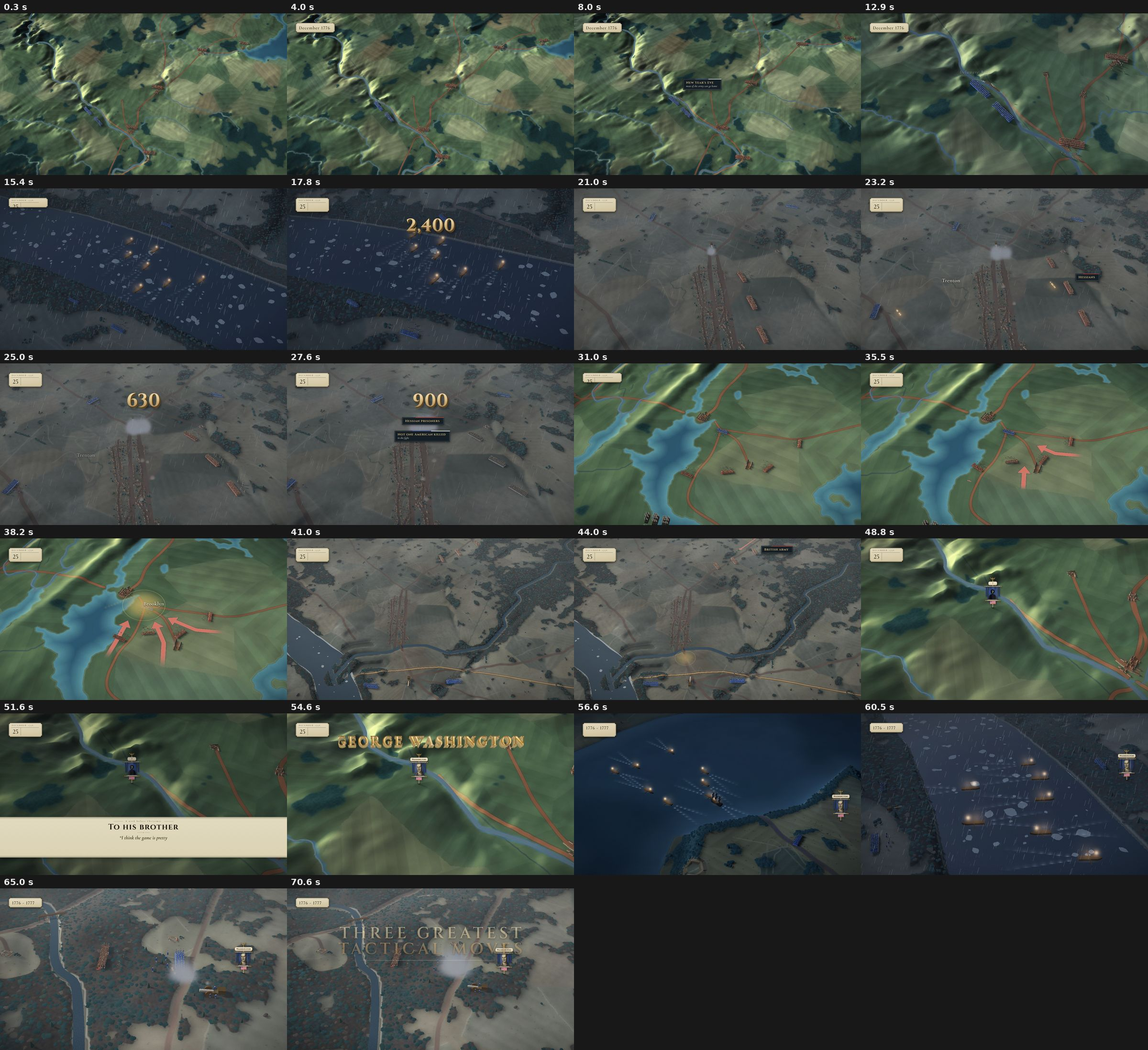
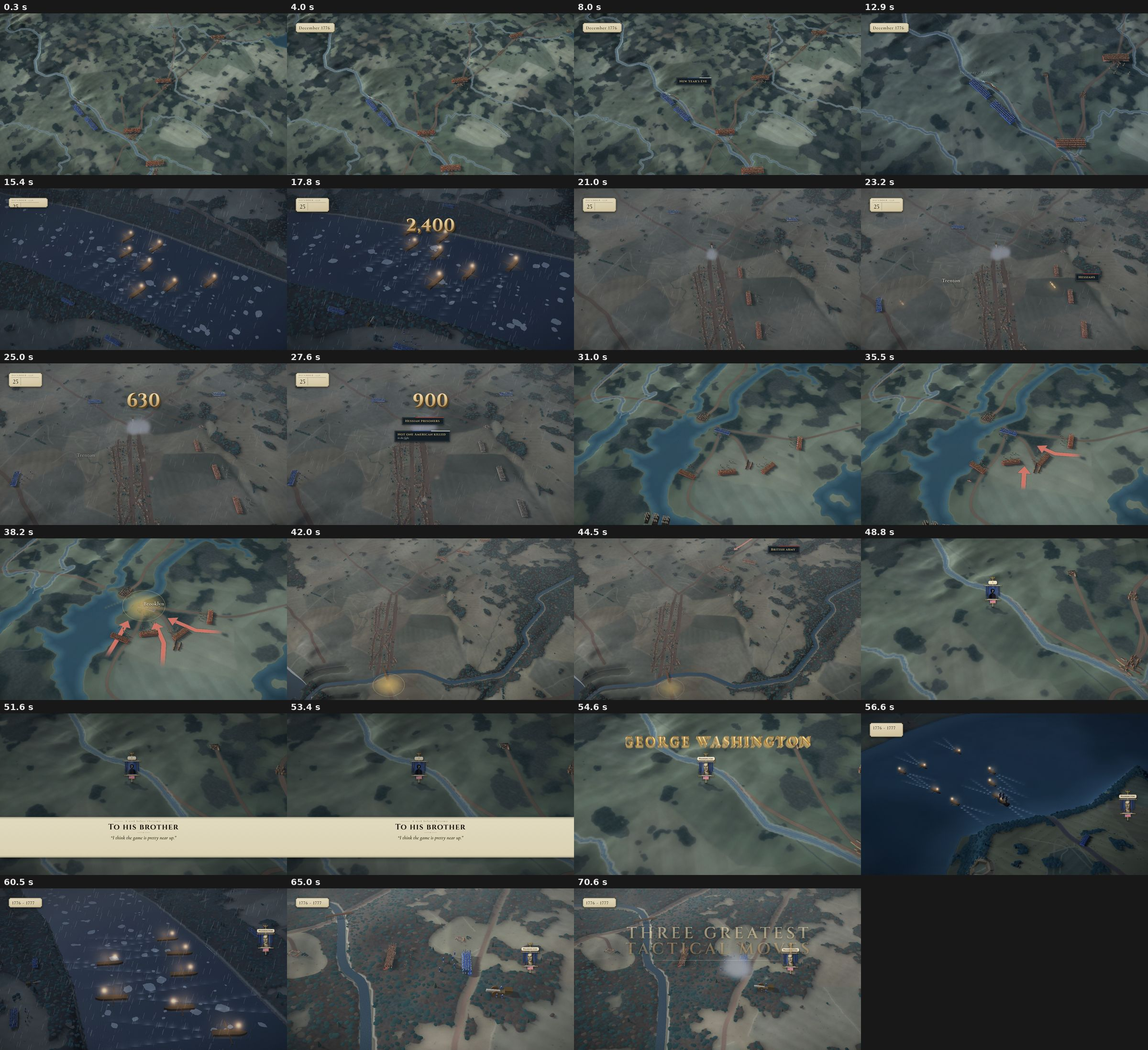
WIP: author A round-1 fixes in progress
Claude-Session: https://claude.ai/code/session_011uJnjBmWWPVu63DLzFZfyj

diff --git a/washington/sequences/S01/seq.js b/washington/sequences/S01/seq.js
@@ -81,7 +81,7 @@ const U = (o) => { units.push({ arrive: false, ...o }); };
 // A: colonies. Red posts settle across New Jersey (short walks into their posts, done by ~6 s); the small blue army walks up to the PA bank.
 const NYC = P("New York", CO);
 // each post: the line walks in from the north (front first, straight down the screen) and halts at its post
-[[TRC, 1, 3.0], [BOC, 1, 2.5], [PRC, 1, 2.5], [NBC, 1, 2.5], [PAC, 1, 2.5]].forEach(([p, n, d], i) => {
+[[TRC, 1, 3.0], [BOC, 1, 2.5], [PRC, 1, 2.5], [NBC, 1, 2.5]].forEach(([p, n, d], i) => {
   const v0 = [0, -1], l = Math.hypot(...v0), v = [v0[0] / l, v0[1] / l], st = [p[0] + v[0] * (d + 9), p[1] + v[1] * (d + 9)], end = [p[0] + v[0] * d, p[1] + v[1] * d];
   U({ region: CO, side: "r", type: "inf", n, bw: 1.4, face: Math.atan2(-v[1], -v[0]), t0: -1, t1: DV.full + 0.2, keys: [[0, ...lerp2(st, end, 0.25)], [1.0 + i * 0.4, ...lerp2(st, end, 0.45)], [5.6 + i * 0.4, ...end]] }); });
 // the blue army: behind the river on the PA side, walking up to the bank (facing New Jersey)
@@ -106,7 +106,7 @@ const STE0 = [1367.4, 2043.2], STE1 = [1367.4, 2047.6];             // a third l
 const fSE = Math.atan2(GRE1[1] - GRE0[1], GRE1[0] - GRE0[0]), fSU = Math.atan2(SUL1[1] - SUL0[1], SUL1[0] - SUL0[0]), fST = Math.atan2(STE1[1] - STE0[1], STE1[0] - STE0[0]);
 U({ region: TR, side: "u", type: "inf", n: 2, face: fSE, t0: CW[0], t1: CW[1], keys: [[0, ...GRE0], [20.4, ...GRE0], [23.4, ...GRE1]] });
 U({ region: TR, side: "u", type: "inf", n: 2, face: fSU, t0: CW[0], t1: CW[1], keys: [[0, ...SUL0], [20.6, ...SUL0], [23.8, ...SUL1]] });
-U({ region: TR, side: "u", type: "inf", n: 2, face: fST, t0: CW[0], t1: CW[1], keys: [[0, ...STE0], [20.9, ...STE0], [23.6, ...STE1]] });
+U({ region: TR, side: "u", type: "inf", n: 2, face: fST, t0: CW[0], t1: CW[1], keys: [[0, ...STE1]] });   // round 1: already across the Princeton road (no oblique walk at the frame edge)
 U({ region: TR, side: "u", type: "art", n: 1, face: Math.PI / 2, t0: CW[0], t1: CW[1], keys: [[0, HEAD[0] - 0.1, HEAD[1] - 1.3]] });
 // the Hessians spill out of the houses east of King St and try for the Princeton road (north-east), then are boxed in
 const fNE = 0;
@@ -268,7 +268,7 @@ window.SEQ = {
     from: { region: CO, at: [MKC[0] + 4, MKC[1] - 2], dist: 230, tilt: 42, yaw: -2, night: 0.35 },
     to: { region: CR, at: XC, dist: 26, tilt: 52, yaw: -30, fov: 30, night: NI } }],
   clouds: {
-    [CO]: { scatter: { seed: 3, n: 10, med: 18 }, keepClear: [[MKC[0], MKC[1], 45, 1, 0.85], [BHC[0], BHC[1], 40, 1, 0.9]] },   // round 1 (critic A): visible wide clouds
+    [CO]: { scatter: { seed: 3, n: 10, med: 18 }, keepClear: [[MKC[0], MKC[1], 50, 1, 0.9], [BHC[0], BHC[1], 85, 1, 1]] },   // round 1 (critic A): visible wide clouds
     [CR]: { shadows: true, opts: {
       erode: (t) => { const e = DV.emerge; return [0, VX.lerp(0.35, 0.7, sstep(e, e + 0.6, t)) + VX.lerp(0, 2.2, sstep(e + 0.3, e + 1.5, t))]; },
       deck: (t) => { const e = DV.emerge; return { x: Math.round(XC[0]) + 4, z: Math.round(XC[1]), r: 9, front: 3 * sstep(e + 0.2, e + 0.7, t), k: 1 }; },

diff --git a/washington/sequences/S02/seq.js b/washington/sequences/S02/seq.js
@@ -41,16 +41,16 @@ const boats = [
 ];
 
 // ---------------- 27 August (colonies) ----------------
-const RIDGE = [[619.4, 306.4], [627.4, 305.8], [634.0, 302.6]];                     // Heights of Guan: Battle Hill, Flatbush pass, Bedford pass
-const WORKS = [[616.8, 294.2], [624.0, 292.8], [631.2, 291.6]];                     // behind the Brooklyn works
+const RIDGE = [[617.4, 306.6], [627.4, 305.8], [636.4, 302.2]];                     // Heights of Guan: Battle Hill, Flatbush pass, Bedford pass
+const WORKS = [[615.4, 294.4], [624.0, 292.8], [632.6, 291.4]];                     // behind the Brooklyn works
 const units = [];
-RIDGE.forEach((p, i) => units.push({ region: CO, side: "u", type: "inf", n: 1, bw: 0.7, skirmish: false, face: Math.PI / 2, t0: 17.8, t1: CUT_B + 0.2, arrive: false,
+RIDGE.forEach((p, i) => units.push({ region: CO, side: "u", type: "inf", n: 1, bw: 0.56, skirmish: false, face: Math.PI / 2, t0: 17.8, t1: CUT_B + 0.2, arrive: false,
   keys: [[0, ...p], [T.broke + i * 0.25, ...p], [T.broke + 4.6 + i * 0.35, ...WORKS[i]]] }));
 // Grant (Gowanus road) and Heister's Hessians (Flatbush) in front of the ridge: close up on "fell on", halt
-[[617.6, 313.2], [629.0, 312.4]].forEach((p, i) => units.push({ region: CO, side: "r", type: "inf", n: 1, bw: 0.7, skirmish: false, face: -Math.PI / 2, t0: 17.8, t1: CUT_B + 0.2, arrive: false,
-  keys: [[0, ...p], [T.fell + i * 0.3, ...p], [T.line + 0.2 + i * 0.3, p[0], p[1] - 2.4]] }));
+[[617.4, 313.8], [627.4, 313.2]].forEach((p, i) => units.push({ region: CO, side: "r", type: "inf", n: 1, bw: 0.56, skirmish: false, face: -Math.PI / 2, t0: 17.8, t1: CUT_B + 0.2, arrive: false,
+  keys: [[0, ...p], [T.fell + i * 0.3, ...p], [T.line + 0.2 + i * 0.3, p[0], p[1] - 1.0]] }));
 // the flank column comes in behind the American left (from the east) at first light
-units.push({ region: CO, side: "r", type: "inf", n: 1, bw: 0.7, skirmish: false, face: Math.PI, t0: T.unguarded + 0.1, t1: CUT_B + 0.2, arrive: false, keys: [[0, 647.0, 297.6], [T.unguarded + 0.4, 647.0, 297.6], [T.behind, 641.6, 297.6]] });
+units.push({ region: CO, side: "r", type: "inf", n: 1, bw: 0.56, skirmish: false, face: Math.PI, t0: T.unguarded + 0.1, t1: CUT_B + 0.2, arrive: false, keys: [[0, 650.0, 297.0], [T.unguarded + 0.4, 650.0, 297.0], [T.behind, 645.0, 297.0]] });
 const JPASS = P("Jamaica Pass", CO), FLAT = P("Flatlands", CO);
 const arrows = [
   { region: CO, side: "r", pts: [[FLAT[0] + 1, FLAT[1] - 2], [651, 310], [JPASS[0] - 1, JPASS[1] + 2.5], [652, 297.4], [645, 297.6]], t0: T.marched, dur: 3.6, t1: T.line, width: 0.5, maxWidth: 0.5 },

diff --git a/washington/sequences/S08/seq.js b/washington/sequences/S08/seq.js
@@ -34,14 +34,14 @@ const held = { build() { const c = document.createElement("canvas"); c.width = 1
 
 // ---------------- units ----------------
 const units = [];
-const walk = (side, a, b, t0, t1, o = {}) => units.push({ region: CO, side, type: "inf", n: 1, bw: 2.0, skirmish: false, arrive: false, face: Math.atan2(b[1] - a[1], b[0] - a[0]),
+const walk = (side, a, b, t0, t1, o = {}) => units.push({ region: CO, side, type: "inf", n: 1, bw: 1.6, skirmish: false, arrive: false, face: Math.atan2(b[1] - a[1], b[0] - a[0]),
   keys: [[0, ...a], [t0, ...a], [t1, ...b]], ...o });
 // the blue army north into the hills (Pluckemin -> Morristown)
 const B0 = lerp2(PLU, MOR, 0.5), B1 = lerp2(PLU, MOR, 0.9);
 walk("u", B0, B1, 0.2, 9.4);
 // the red posts pull back east to New Brunswick, Perth Amboy and Paulus Hook (front first)
-walk("r", lerp2(KIN, [NB[0] - 5, NB[1] + 8], 0.45), [NB[0] - 5, NB[1] + 8], T.pulled - 0.4, 15.6);
-walk("r", lerp2(SOM, [NB[0] - 2, NB[1] - 8], 0.3), [NB[0] - 2, NB[1] - 8], T.pulled - 0.1, 15.0);
+walk("r", lerp2(KIN, [NB[0] - 14, NB[1] + 10], 0.45), [NB[0] - 14, NB[1] + 10], T.pulled - 0.4, 15.6);
+walk("r", lerp2(SOM, [NB[0] + 4, NB[1] - 12], 0.3), [NB[0] + 4, NB[1] - 12], T.pulled - 0.1, 15.0);
 walk("r", lerp2(ETC, [PA[0] - 8, PA[1] - 7], 0.55), [PA[0] - 8, PA[1] - 7], T.pulled + 0.2, 15.4);
 walk("r", NEW, [PH[0] - 8, PH[1] + 2], T.pulled + 0.5, 14.8);
 
